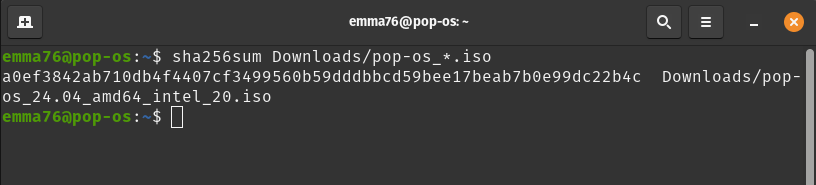
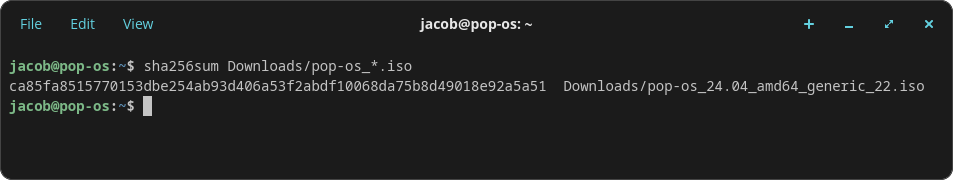
Update iso checksum screenshot

diff --git a/content/live-disk.md b/content/live-disk.md
@@ -51,7 +51,7 @@ sha256sum Downloads/pop-os_*.iso
 ```
 **Version numbers:** This command will list the checksums for all Pop!_OS .iso files. If you're trying to verify a specific .iso version, replace the <kbd>*</kbd> with the version name in the .iso filename.
 
-An example of the terminal output to expect is below. The large block of numbers and letters is the checksum to match with the download page. The version of the iso is indicated in the filename. In this example, we are viewing the checksum for Pop!_OS 24.04 intel version 20 .iso.
+An example of the terminal output to expect is below. The large block of numbers and letters is the checksum to match with the download page. The version of the iso is indicated in the filename. In this example, we are viewing the checksum for the Pop!_OS 24.04 generic version 20 .iso.
 
 ![Checksum Terminal Output](/images/live-disk/checksumexample.png)
 
